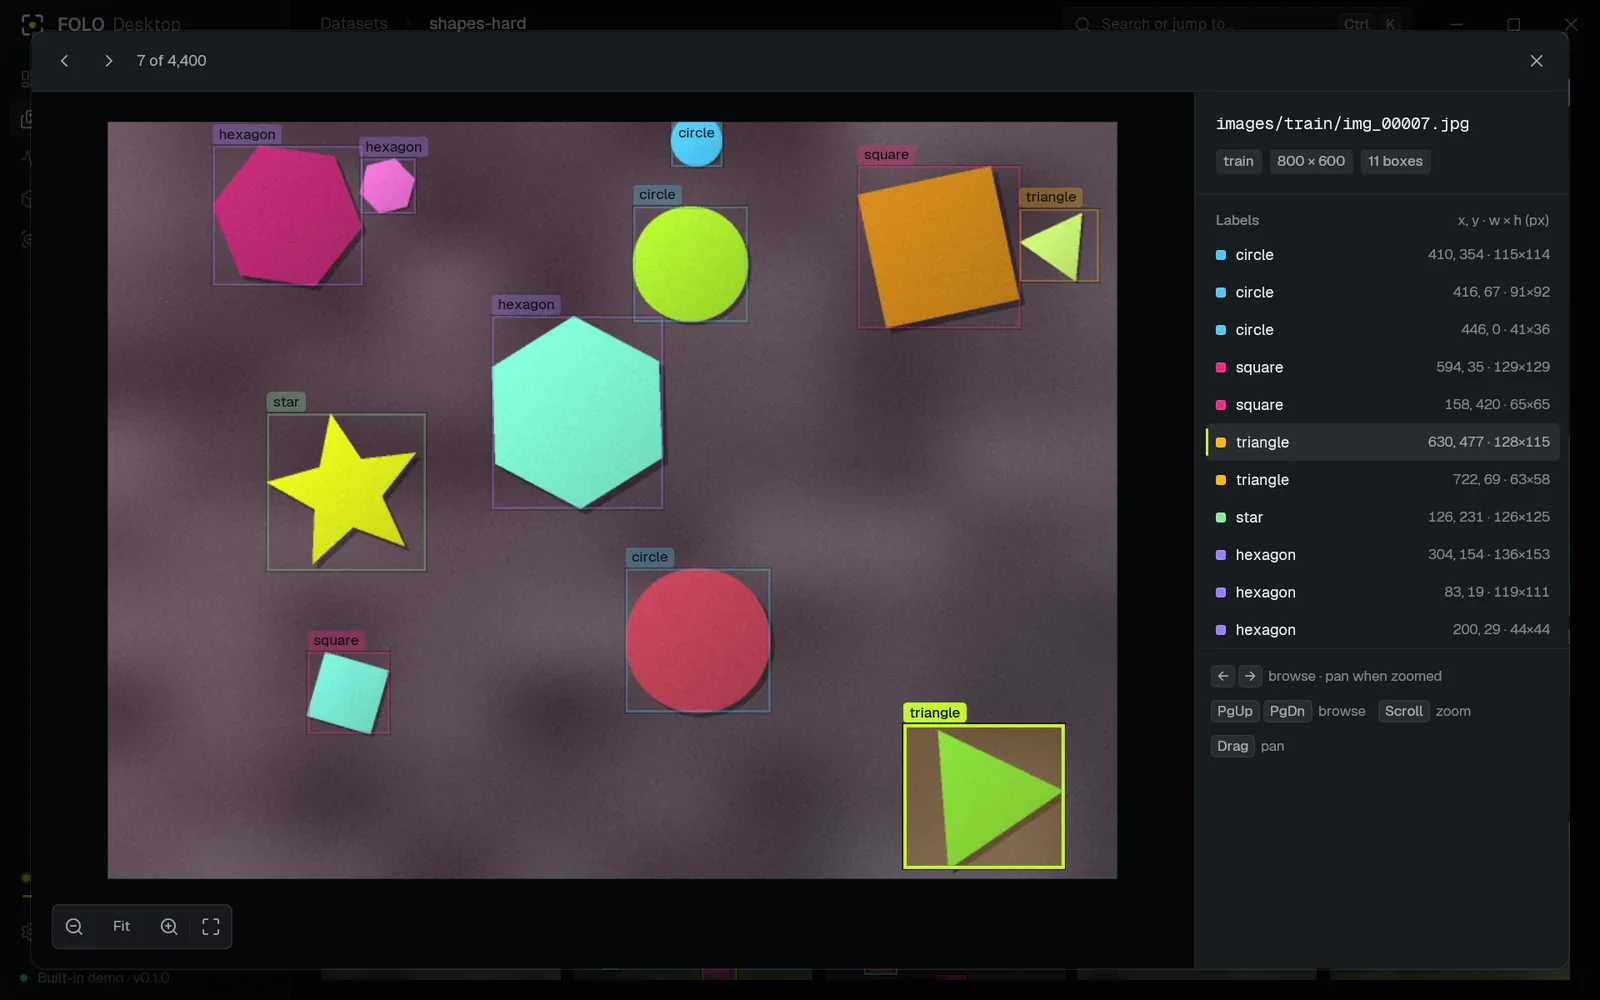
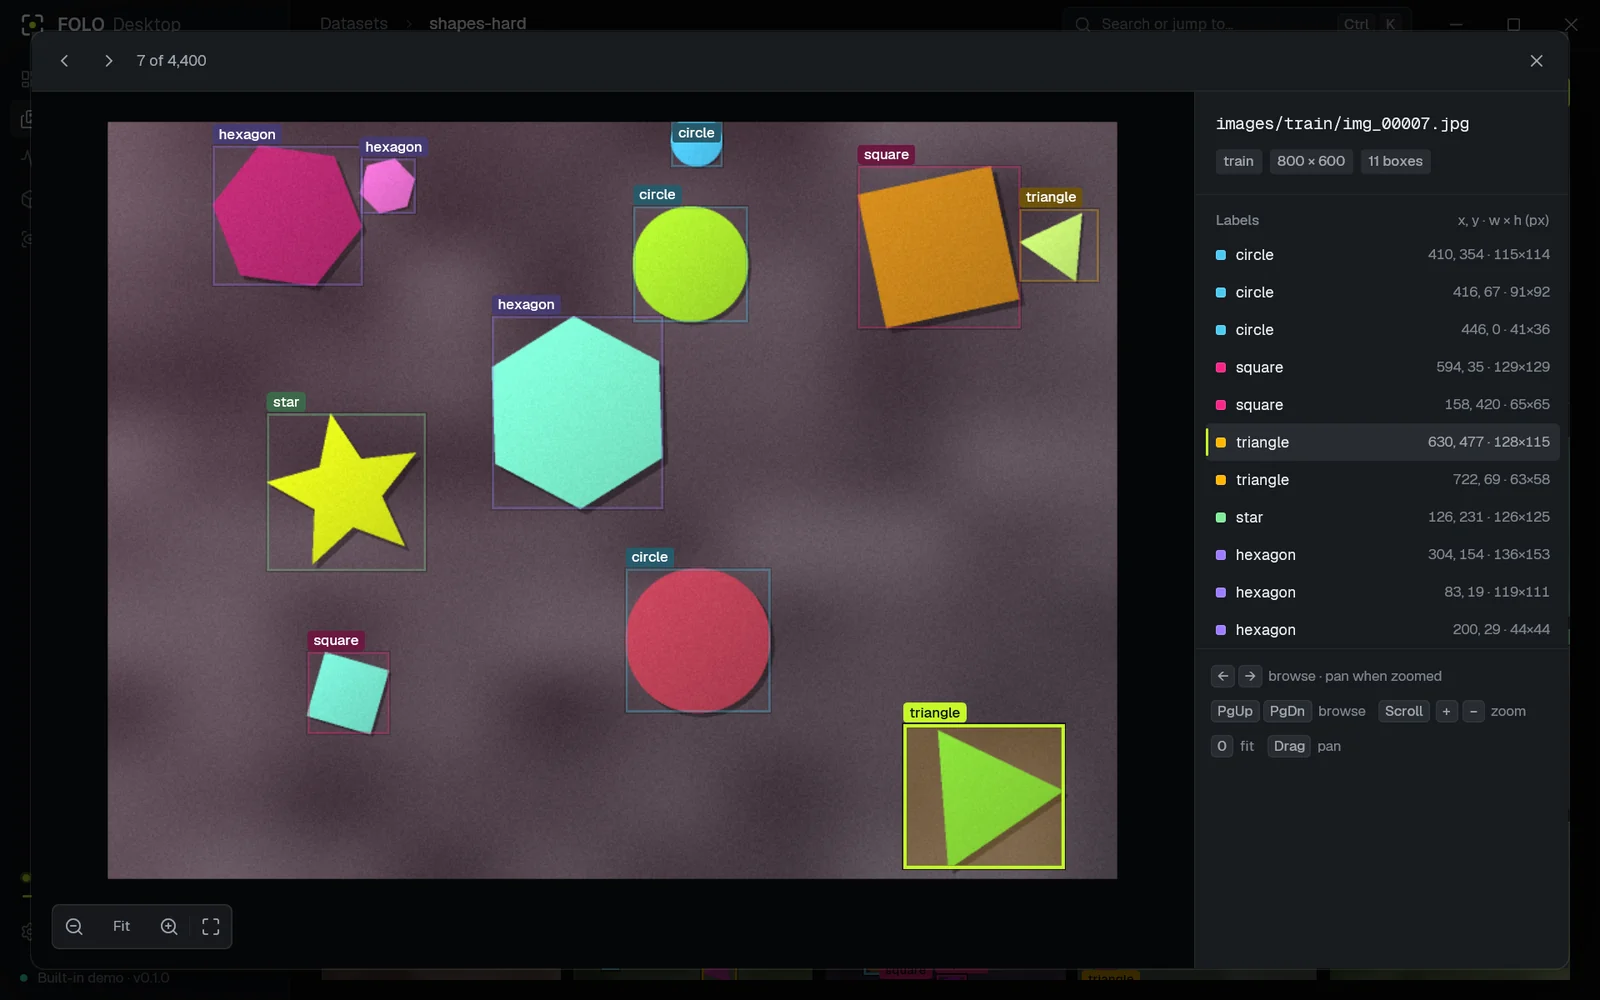
desktop: adopt #69's API changes; refresh the README screenshots
- Registering a folder that is already a dataset (the server now answers with
  the existing one) says "<name> is already added" and keeps the list order.
- Local inference reports GPU out-of-memory with the shared gpu_out_of_memory
  code, the engine's short summary and a hint; Playground shows error hints and,
  for a local GPU OOM, a one-click "Run on Local CPU".
- New run errors show the server's hint (device_not_found lists the adapters,
  gpu_out_of_memory says what to lower).
- Failed-run OOM detection is one helper (runs carry the message, not the code).
- docs/img/desktop-run-live.webp and desktop-inspector.webp from round 25.

diff --git a/apps/desktop/src/screens/runs.rs b/apps/desktop/src/screens/runs.rs
@@ -440,7 +440,7 @@ impl FoloApp {
                 // Reuse the whole config; for out-of-memory failures, halve the batch. Resuming an
                 // OOM failure would hit the same limit (the config can't change), so it isn't offered.
                 let mut cfg = r.config.clone();
-                let oom = r.error.as_deref().is_some_and(|e| e.contains("out of memory"));
+                let oom = r.error.as_deref().is_some_and(is_gpu_oom);
                 if !oom {
                     actions.push(self.resume_button(&r, window, cx));
                 }
@@ -517,7 +517,7 @@ impl FoloApp {
     fn failure_banner(&self, r: &Run, cx: &mut Context<Self>) -> AnyElement {
         let t = theme(cx);
         let msg = r.error.clone().unwrap_or_else(|| "The run failed.".into());
-        let hint = if msg.contains("out of memory") {
+        let hint = if is_gpu_oom(&msg) {
             match crate::app::retry_batch(r.config.batch) {
                 Some(to) => format!(
                     "The batch didn't fit in GPU memory. New run from this config starts with batch {to}; a smaller image size or architecture also helps."
@@ -1407,9 +1407,24 @@ fn log_range(lo: f32, hi: f32) -> (f32, f32) {
     (y0, y1)
 }
 
+/// A run that failed with `gpu_out_of_memory`. Runs carry the message, not the code (docs/API.md):
+/// the server writes "the GPU ran out of memory (…)", older servers the driver's "… out of memory …".
+fn is_gpu_oom(message: &str) -> bool {
+    let m = message.to_ascii_lowercase();
+    m.contains("out of memory") || m.contains("outofmemory")
+}
+
 #[cfg(test)]
 mod tests {
     use super::log_range;
+
+    #[test]
+    fn out_of_memory_failures_are_recognised() {
+        use super::is_gpu_oom;
+        assert!(is_gpu_oom("the GPU ran out of memory (Out of Memory: tried to allocate 2.1 GiB)"));
+        assert!(is_gpu_oom("wgpu: OutOfMemory"));
+        assert!(!is_gpu_oom("invalid dataset: no training images"));
+    }
 
     #[test]
     fn the_log_loss_axis_holds_every_positive_value() {

diff --git a/apps/desktop/src/screens/playground.rs b/apps/desktop/src/screens/playground.rs
@@ -758,10 +758,34 @@ impl FoloApp {
                     )
                     .into_any_element()
             }
-            Load::Failed(e) => div()
-                .p(px(16.))
-                .child(text(ty::SM, t.danger_text).child(e.message.clone()))
-                .into_any_element(),
+            Load::Failed(e) => {
+                // Out of GPU memory locally: the CPU is one click away.
+                let to_cpu = (e.code == "gpu_out_of_memory"
+                    && self.play_target == Some(crate::local::Target::Gpu))
+                .then(|| {
+                    self.button(
+                        "play-to-cpu",
+                        "Run on Local CPU",
+                        Btn::Secondary,
+                        None,
+                        window,
+                        cx,
+                        act(|this, _, cx| this.set_play_target(Some(crate::local::Target::Cpu), cx)),
+                    )
+                });
+                div()
+                    .p(px(16.))
+                    .flex()
+                    .flex_col()
+                    .items_start()
+                    .gap(px(6.))
+                    .child(text(ty::SM, t.danger_text).whitespace_normal().child(e.message.clone()))
+                    .when_some(e.hint.clone(), |d, h| {
+                        d.child(text(ty::XS, t.text_tertiary).whitespace_normal().child(h))
+                    })
+                    .children(to_cpu.map(|b| div().pt(px(4.)).child(b)))
+                    .into_any_element()
+            }
             Load::Loading => div()
                 .flex_none()
                 .child(

diff --git a/apps/desktop/src/overlays.rs b/apps/desktop/src/overlays.rs
@@ -895,13 +895,25 @@ impl FoloApp {
                 d.child(
                     div()
                         .flex()
-                        .items_center()
+                        .items_start()
                         .gap(px(8.))
                         .p(px(10.))
                         .rounded(px(radius::MD))
                         .bg(t.danger_muted)
                         .child(icon("icons/circle-alert.svg", 14., t.danger_solid))
-                        .child(text(ty::SM, t.danger_text).child(e.message)),
+                        // The server's hint says what to change (device_not_found lists the
+                        // adapters there are; gpu_out_of_memory names batch, imgsz and arch).
+                        .child(
+                            div()
+                                .flex()
+                                .flex_col()
+                                .gap(px(2.))
+                                .min_w_0()
+                                .child(text(ty::SM, t.danger_text).whitespace_normal().child(e.message))
+                                .when_some(e.hint, |d, h| {
+                                    d.child(text(ty::XS, t.text_secondary).whitespace_normal().child(h))
+                                }),
+                        ),
                 )
             });
         let images = ds.as_ref().map_or(0, |d| d.splits.train);

diff --git a/apps/desktop/src/app.rs b/apps/desktop/src/app.rs
@@ -1336,13 +1336,19 @@ impl FoloApp {
     fn dataset_added(&mut self, ds: crate::api::Dataset, verb: &str, cx: &mut Context<Self>) {
         let (id, name) = (ds.id.clone(), ds.name.clone());
         let body = format!("{} images · {}", int(ds.splits.total()), ds.classes.join(", "));
+        // Registering a folder twice answers with the dataset it already is: say so, and leave
+        // the list's order alone.
+        let existed = self.store.datasets.ready().is_some_and(|l| l.iter().any(|d| d.id == ds.id));
         if let Some(list) = self.store.datasets.ready_mut() {
-            list.retain(|d| d.id != ds.id);
-            list.insert(0, ds);
+            if let Some(slot) = list.iter_mut().find(|d| d.id == ds.id) {
+                *slot = ds;
+            } else {
+                list.insert(0, ds);
+            }
         }
         self.toast_with(
-            Tone::Accent,
-            format!("{verb} {name}"),
+            if existed { Tone::Info } else { Tone::Accent },
+            if existed { format!("{name} is already added") } else { format!("{verb} {name}") },
             Some(body.into()),
             Some((
                 "Open".into(),

diff --git a/apps/desktop/src/local.rs b/apps/desktop/src/local.rs
@@ -75,12 +75,13 @@ pub fn gpu() -> Result<(Device, String), String> {
 
 fn engine_error(e: impl Into<folo_vision::Error>) -> ApiError {
     let e = e.into();
-    let code = match e.code() {
-        "invalid_weights" => "invalid_weights",
-        "invalid_config" => "invalid_config",
-        _ => "local_inference_failed",
-    };
-    ApiError::new(code, e.to_string())
+    // The engine's codes are the API's (folo_api::codes); its summary keeps driver reports short.
+    match e.code() {
+        "gpu_out_of_memory" => ApiError::new("gpu_out_of_memory", e.summary())
+            .with_hint("Run it on the Local CPU, or on the server."),
+        code @ ("invalid_weights" | "invalid_config") => ApiError::new(code, e.summary()),
+        _ => ApiError::new("local_inference_failed", e.summary()),
+    }
 }
 
 fn device(target: Target) -> ApiResult<(Device, String)> {
